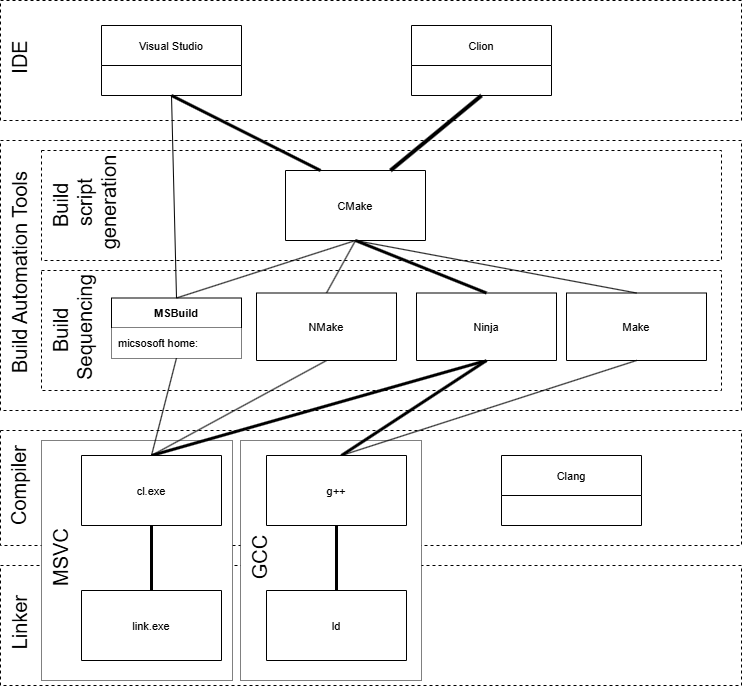
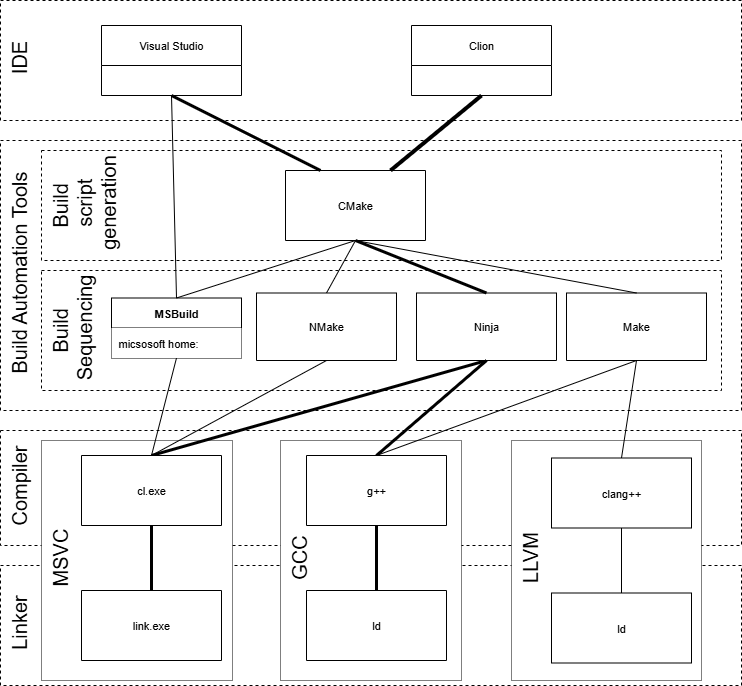
new toolset image for C++; microsoft compiler documentation; cursor compiler setup; visual studio code and cursor config; plotly dash limitation

diff --git a/manuals/Programming/C++/C++ Workflow.md b/manuals/Programming/C++/C++ Workflow.md
@@ -1,5 +1,5 @@
 # Introduction
-In C++, the workflow and especially the build pipeline is much more complicated than in other languages. Therefore, we start with brief overview of the C++ build pipelines. The following scheme shows the possible build pipelines for C++, starting from Integrated developemnt tools (IDE) and ending with the linker.
+In C++, the workflow and especially the build pipeline is much more complicated than in other languages. Therefore, we start with brief overview of the C++ build pipelines. The following scheme (see the [source](https://drive.google.com/file/d/1maXBLUjcr2lR-Vys7XvGo8-B2p4JmeJN/view?usp=sharing) for links) shows the possible build pipelines for C++, starting from Integrated developemnt tools (IDE) and ending with the linker.
 
 ![C++ Workflow](Build%20tools%20and%20toolsets.png)
 
@@ -23,8 +23,29 @@ There are various toolchains available on Windows and Linux, but we limit this g
 
 
 ## MSVC (Windows)
+[Visual Studio Comunity Edition](https://visualstudio.microsoft.com/cs/vs/)
 
--   install [Visual Studio 2019 Comunity Edition](https://visualstudio.microsoft.com/cs/vs/)
+### Setting up the compiler environment
+Most of the time, the compiler environment is set up automatically. However, beware that **failing to setup the MSVC compiler environment can lead to hard to debug errors or silent selection of another compiler!**.
+
+MSVC compiler is automatically set up:
+
+- by Visual Studio and CLion IDEs
+- by developer command prompt and developer PowerShell
+- anytime when MSBuild is used as build sequencing tool
+
+On the other hand, a typical example of a situation where the compiler environment is not set up is when using a non-developer shell (e.g., PowerShell) and using a non-default build sequencing tool (e.g., Ninja).
+
+To **test if the compiler environment is set up correctly**, we can use call the `cl` command. If the compiler environment is not set up correctly, the command will not be found.
+
+To set up the compiler environment manually, you can use the following commands:
+```powershell
+$vswhere = "${env:ProgramFiles(x86)}\Microsoft Visual Studio\Installer\vswhere.exe"
+$vs = & $vswhere -latest -products * -requires Microsoft.VisualStudio.Component.VC.Tools.x86.x64 -property installationPath
+Import-Module "$vs\Common7\Tools\Microsoft.VisualStudio.DevShell.dll"
+Enter-VsDevShell -VsInstallPath $vs -DevCmdArguments '-arch=x64 -host_arch=x64'
+```
+
 
 ### Common Compiler Flags
 
@@ -653,8 +674,17 @@ To run the configuration or other CMake tasks, open the newly installed CMake vi
 By default, the CMake extension uses CMake presets to configure the project. To use CMake  withou presets, go to the extension settings and set `CMake: Use CMake Presets` to `never`.
 
 ## Cursor
-For Cursor, the situation is almost the same as for VS Code. The main, but important difference is that **Cursor does not support the Visual Studio Debugger** (cppvsdbg) [[source]](https://forum.cursor.com/t/new-in-house-extensions-c-c-ssh-devcontainers-wsl-python/94531?utm_source=chatgpt.com), [[source 2]](https://forum.cursor.com/t/are-there-any-plans-to-support-the-cppvsdbg-type-in-the-future/7304). Therefore, Cursor is hardly usable as the all-in-one IDE for C++, it has to be used in combination with another IDE.
+For Cursor, the situation is almost the same as for VS Code. Important differences:
 
+- The main, but important difference is that **Cursor does not support the Visual Studio Debugger** (cppvsdbg) [[source]](https://forum.cursor.com/t/new-in-house-extensions-c-c-ssh-devcontainers-wsl-python/94531?utm_source=chatgpt.com), [[source 2]](https://forum.cursor.com/t/are-there-any-plans-to-support-the-cppvsdbg-type-in-the-future/7304). Therefore, Cursor is hardly usable as the all-in-one IDE for C++, it has to be used in combination with another IDE.
+- Cursor does not have a built-in IntelliSense. Instead, it relies on [clangd](https://clangd.llvm.org/) to provide the functionality.
+- Cursor does not have the Microsoft C++ Extension enabled. Instead, it has another C++ extension from Anysphere. This is the only C++ extension that needs to be installed manually, as it installs automatically:
+    - the [CMake Tools](https://marketplace.visualstudio.com/items?itemName=ms-vscode.cmake-tools) extension
+	- the [clangd](https://marketplace.visualstudio.com/items?itemName=llvm-vs-code-extensions.vscode-clangd) extension
+	- the [CodeLLDB](https://marketplace.visualstudio.com/items?itemName=vadimcn.vscode-lldb) extension
+
+
+### Call the MSVC compiler from Cursor
 To partially overcome this limitation, we can at least run the program without debugger as a task:
 
 ```json
@@ -681,6 +711,14 @@ Here the executable is defined by:
 - `${command:cmake.launchTargetDirectory}`: the path to the build bin directory
 
 Both these variables are defined by the CMake Tools extension.
+
+### Troubleshooting
+
+#### The `Ctrl + click` on a function call does not open the definition
+Unlike in VS Code, Cursor does not have a built-in IntelliSense. Instead, it relies on [clangd](https://clangd.llvm.org/) to provide the functionality. To conclude what is wrong, first try to reset the clangd server:
+
+1. `View` -> `Command Palette`
+1. type `clangd: Restart language server`
 
 
 # Typical directory structure

diff --git a/manuals/Programming/Common.md b/manuals/Programming/Common.md
@@ -142,7 +142,28 @@ This is unfortunately a default behavior of the IDE output console. To mitigate 
 
 # Visual Studio Code
 
-## Set a visual guidline at 120 characters
+## Configuration
+In VS Code, the configuration is stored in the `settings.json`. 
+
+There is a system file, and also a workspace file, with a higher priority.
+
+Typically, the settings are configured using UI, which can be accessed by clicking on the gear icon in the bottom left corner of the window and selecting `Settings`. 
+
+Some settings can only be configured by editing the `settings.json` file. If it is the case, there is typically a button in the UI that opens the file in the editor.
+
+There is a lot of options, and the UI is very basic. Therefore, it is usually best to use the search box to find the setting you are looking for.
+
+### Basic Configuration
+
+- Enable Multi-row tabs: `workbench.editor.wrapTabs`
+
+#### Forward and backward navigation
+To display forward and backward navigation:
+
+1. Right click on the top toolbar
+1. Select `Command Center`
+
+#### Set a visual guidline at 120 characters
 To set a visual guidline at 120 characters, we can use the `editor.rulers` setting:
 
 1. open the settings and search for `rulers`.
@@ -154,15 +175,27 @@ To set a visual guidline at 120 characters, we can use the `editor.rulers` setti
     ]
     ```
 
+### Language specific settings
+Language specific settings can be configured in the `settings.json` file, there is no GUI for it. A lot of general parameters can be set specifically to some language by adding them to the language section (object) of the `settings.json` file. Example:
+```json
+"editor.formatOnSave": false,
+"editor.defaultFormatter": "esbenp.prettier-vscode",
+"[python]": {
+    "editor.formatOnSave": true
+}
+```
+Here we configure the editor to format the code on save only for Python.
+
+
+### Code Style
+Code stylke can be only configured in the `settings.json` file, there is no GUI for it. Typically, we apply the settings to only one language by adding them to the language section of the `settings.json` file. The typical settings are:
+
+- `editor.insertSpaces`: if true, the editor will insert spaces instead of tabs
+
+
+
 ## Code Formatting
 Formatting in VS Code is defined only for some languages. For others, it has to be installed as an extension. Note that **if the formatting is not defined for a language, selection formatting do nothing**. To check the availability, try to format the whole document, then, an error box should appear.
-
-
-## Forward and backward navigation
-To display forward and backward navigation:
-
-1. Right click on the top toolbar
-1. Select `Command Center`
 
 
 ## Tasks

diff --git a/manuals/Programming/C++/CMake Manual.md b/manuals/Programming/C++/CMake Manual.md
@@ -200,22 +200,7 @@ CMake has two types of variables:
     set(dirs "C:/Program Files" "C:/Program Files (x86)")
     ```
 
-## The `option` command
-The [`option`](https://cmake.org/cmake/help/latest/command/option.html) command is used to define a **boolean** variable that can:
 
-- be set by the user using the `-D` argument when running the `cmake` command,
-- have a default value,
-- have a description that will be printed when the variable is set, and
-- set a cache variable (see [CMake cache](#cmake-cache)).
-
-The syntax is:
-```cmake
-option(<option name> <option description> <default value>)
-```
-The behavior of the `option` command is as follows:
-
-- If variable is already set (either a cache variable or a normal variable), the `option` command is ignored.
-- Otherwise, a cache variable is created if we are in the project mode, and a normal variable is created if we are in the script mode.
 
 ### Enviromental variables
 We can use environmental variables using the `ENV` variable:
@@ -302,6 +287,22 @@ endfunction()
 
 To print all variables related to HDF5 lib, call `dump_cmake_variables(HDF)` after the `find_package` call.
 
+### The `option` command
+The [`option`](https://cmake.org/cmake/help/latest/command/option.html) command is used to define a **boolean** variable that can:
+
+- be set by the user using the `-D` argument when running the `cmake` command,
+- have a default value,
+- have a description that will be printed when the variable is set, and
+- set a cache variable (see [CMake cache](#cmake-cache)).
+
+The syntax is:
+```cmake
+option(<option name> <option description> <default value>)
+```
+The behavior of the `option` command is as follows:
+
+- If variable is already set (either a cache variable or a normal variable), the `option` command is ignored.
+- Otherwise, a cache variable is created if we are in the project mode, and a normal variable is created if we are in the script mode.
 
 ## Control structures
 

diff --git a/manuals/LaTeX/LaTeX workflow.md b/manuals/LaTeX/LaTeX workflow.md
@@ -5,6 +5,7 @@ So far we have three LaTeX toolchains that has proven to work well:
 - **VSCode + Latex Workshop + MikTeX/Tinytex**: Modern desktop setup. The main advantage is that VSCode has the best Copilot support from all the editors, which is a huge time saver.
 
 # VSCode + Latex Workshop + MikTeX/Tinytex
+
 ## Installation
 The installation of VSCode and [Latex Workshop](https://marketplace.visualstudio.com/items?itemName=James-Yu.latex-workshop) (VSCode extension) is straightforward, so we cover only the installation of MikTeX/[Tinytex](https://github.com/rstudio/tinytex) here.
 

diff --git a/manuals/Programming/Python/Plotly Manual.md b/manuals/Programming/Python/Plotly Manual.md
@@ -623,7 +623,7 @@ Lines can be styled using the line parameter of the plotting functions or using 
     - `"dot"`: dense dashed line
     - `"dash"`: sparse dashed line
     - ... 
-    
+    - Be aware that the **dash pattern is proportional to the axis range**. In result, it is practicaly impossible to use dash patterns on graphs with different axes ranges.
 
 
 ## Title

diff --git a/manuals/Programming/Python/Python Manual.md b/manuals/Programming/Python/Python Manual.md
@@ -1317,6 +1317,7 @@ In the table below, we can see a comparison of the most common plotting librarie
 | --- | --- | --- |
 | real 3D plots | no | yes |
 | detail legend styling (padding, round corners...) | yes | no |
+| dash patterns for lines with different axes ranges | yes | no |
 
 ## Matplotlib
 [Official Manual](https://matplotlib.org/stable/contents.html)
